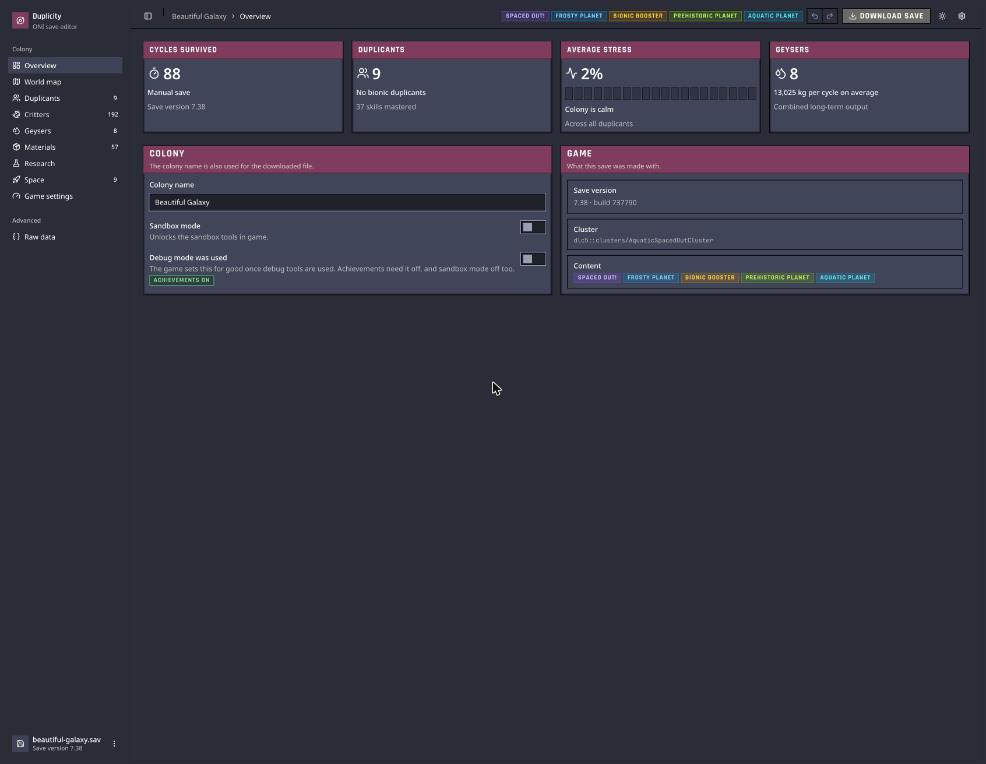
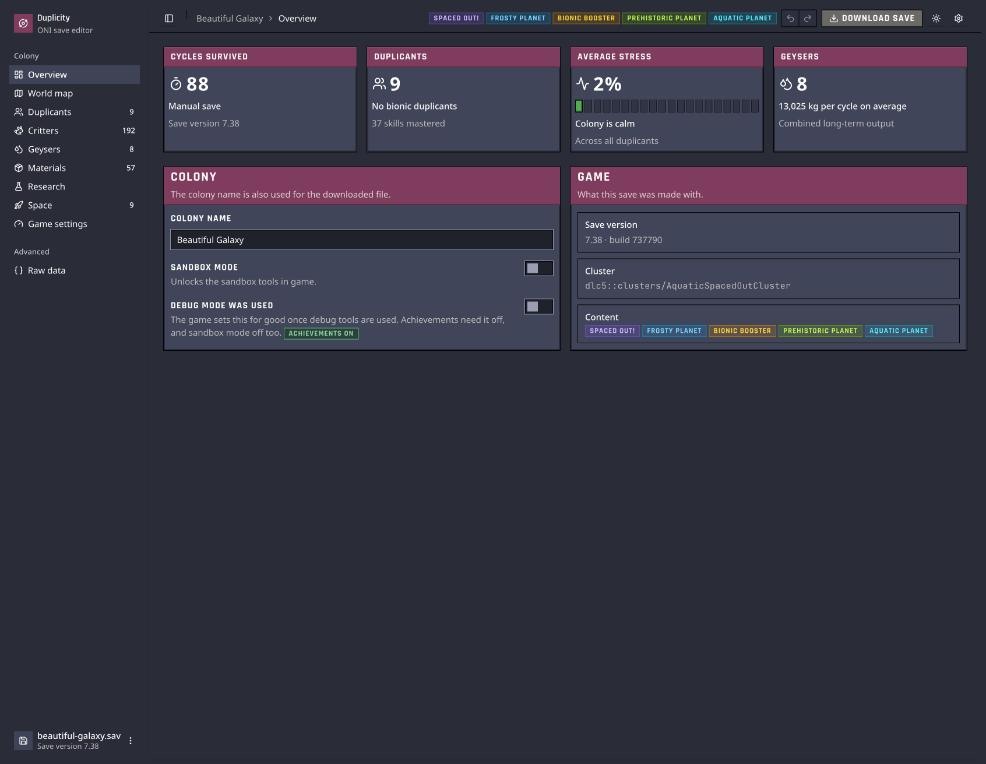
feat(web): use the type scale on the overview and map pages

Changed region(s): [[0.0, 0.0, 1.0, 0.4817], [0.0, 0.9634, 0.1217, 0.9935]]

diff --git a/apps/web/src/components/map-page.tsx b/apps/web/src/components/map-page.tsx
@@ -248,7 +248,7 @@ export function MapPage({ worlds, revision }: { worlds: WorldView[]; revision: n
                 ))}
             </div>
           ) : error?.worldId === worldId ? (
-            <p className="p-4 text-sm text-destructive">{error.message}</p>
+            <p className="p-4 type-small text-destructive">{error.message}</p>
           ) : (
             <Skeleton className="size-full" />
           )}
@@ -256,9 +256,7 @@ export function MapPage({ worlds, revision }: { worlds: WorldView[]; revision: n
         <div className="flex min-w-0 flex-col gap-4">
           <CellInfo map={map} hover={hover} />
           <div className="flex flex-col gap-2">
-            <span className="font-heading text-sm font-bold tracking-[0.09em] text-muted-foreground uppercase">
-              Markers
-            </span>
+            <span className="type-label text-muted-foreground">Markers</span>
             <ToggleGroup
               type="multiple"
               variant="outline"
@@ -274,7 +272,7 @@ export function MapPage({ worlds, revision }: { worlds: WorldView[]; revision: n
           </div>
           {mode === 'element' ? (
             <div className="flex min-h-0 flex-col gap-2">
-              <div className="flex items-center justify-between font-heading text-sm font-bold tracking-[0.09em] text-muted-foreground uppercase">
+              <div className="flex items-center justify-between type-label text-muted-foreground">
                 <span>
                   {world?.name ?? 'World'} · {legend.length} elements
                 </span>
@@ -292,7 +290,7 @@ export function MapPage({ worlds, revision }: { worlds: WorldView[]; revision: n
                       type="button"
                       onClick={() => setHighlight((h) => (h === e.index ? null : e.index))}
                       className={cn(
-                        'flex items-center gap-2 border border-transparent px-2 py-1.5 text-left text-sm hover:bg-white/10',
+                        'flex items-center gap-2 border border-transparent px-2 py-1.5 text-left type-small hover:bg-white/10',
                         highlight === e.index && 'border-warn bg-white/10',
                       )}
                     >
@@ -305,7 +303,7 @@ export function MapPage({ worlds, revision }: { worlds: WorldView[]; revision: n
                         }}
                       />
                       <span className="min-w-0 flex-1 truncate">{e.name}</span>
-                      <span className="text-xs text-muted-foreground tabular-nums">
+                      <span className="type-caption text-muted-foreground tabular-nums">
                         {fmt((e.cells / totalCells) * 100, 1)}%
                       </span>
                     </button>
@@ -331,7 +329,7 @@ function CellInfo({
 }) {
   if (!map || !hover) {
     return (
-      <div className="well px-3 py-4 text-sm text-muted-foreground">
+      <div className="well px-3 py-4 type-small text-muted-foreground">
         Hover the map to inspect a cell.
       </div>
     )
@@ -348,18 +346,18 @@ function CellInfo({
         <Badge variant="secondary">{element.state}</Badge>
       </div>
       {element.state !== 'Vacuum' && (
-        <div className="grid grid-cols-2 gap-x-3 text-sm tabular-nums">
+        <div className="grid grid-cols-2 gap-x-3 type-small tabular-nums">
           <span className="text-muted-foreground">Mass</span>
           <span className="text-right">{fmtMass(map.mass[i]!)}</span>
           <span className="text-muted-foreground">Temperature</span>
           <span className="text-right">{fmt(toCelsius(map.temperature[i]!), 1)} °C</span>
         </div>
       )}
-      <span className="text-xs text-muted-foreground tabular-nums">
+      <span className="type-caption text-muted-foreground tabular-nums">
         Cell {hover.x}, {hover.y}
       </span>
       {here.map((m, index) => (
-        <span key={index} className="text-sm">
+        <span key={index} className="type-small">
           {m.name} <span className="text-muted-foreground">· {m.kind}</span>
         </span>
       ))}
@@ -374,12 +372,12 @@ function RampLegend({ mode }: { mode: 'temperature' | 'mass' }) {
     cssColor(mode === 'temperature' ? temperatureColor(value) : massColor(10 ** value))
   return (
     <div className="flex flex-col gap-2">
-      <span className="font-heading text-sm font-bold tracking-[0.09em] text-muted-foreground uppercase">
+      <span className="type-label text-muted-foreground">
         {mode === 'temperature' ? 'Temperature' : 'Mass per cell (log scale)'}
       </span>
       <div className="flex flex-col border border-ink bg-legend">
         {stops.map(([value]) => (
-          <div key={value} className="flex items-center gap-2 px-2 py-1 text-sm tabular-nums">
+          <div key={value} className="flex items-center gap-2 px-2 py-1 type-small tabular-nums">
             <span className="size-4 ring-1 ring-ink" style={{ background: colorAt(value) }} />
             {label(value)}
           </div>

diff --git a/apps/web/src/components/overview-page.tsx b/apps/web/src/components/overview-page.tsx
@@ -39,13 +39,13 @@ function StatCard({
         <CardTitle>{label}</CardTitle>
       </CardHeader>
       <CardContent className="flex flex-col gap-2">
-        <Badge variant="bare" className="text-3xl font-semibold tabular-nums [&>svg]:size-6!">
+        <Badge variant="bare" className="type-h1 tabular-nums [&>svg]:size-6!">
           {icon}
           {value}
         </Badge>
         {meter}
-        <div className="line-clamp-1 text-sm font-medium">{footer}</div>
-        <div className="text-sm text-muted-foreground">{detail}</div>
+        <div className="line-clamp-1 type-small font-medium">{footer}</div>
+        <div className="type-small text-muted-foreground">{detail}</div>
       </CardContent>
     </Card>
   )
@@ -185,7 +185,7 @@ export function OverviewPage({
               <Item variant="outline" size="sm">
                 <ItemContent>
                   <ItemTitle>Cluster</ItemTitle>
-                  <ItemDescription className="font-mono text-xs">
+                  <ItemDescription className="type-caption font-mono">
                     {summary.clusterId || '—'}
                   </ItemDescription>
                 </ItemContent>

diff --git a/docs/progress.md b/docs/progress.md
@@ -99,6 +99,7 @@ Node 24.21.0, pnpm 12.6.0, TypeScript 7.0.2.
 - Research: progress is a `Progress variant="task"` with a `64 / 112` readout; tech tiles sit on `well` colour in a 1px ink grid.
 - Game settings: every setting is a `well` block; the locked state is a `stat` badge.
 - World map: the element list and ramp legend use the grey `legend` colour with square swatches, the cell info is a `well` block and the map frame is square with an ink outline.
+- Text uses the shared type scale (`type-h1` for the stat numbers, `type-label`, `type-small`, `type-caption`).
 - Only the four page files changed. No behaviour change: every role, name, label and test id is kept. Before and after screenshots are in `docs/screenshots/ui-pages-a/`.
 - Known: `apps/web/tests/geysers.test.ts` still fails locally without the fetched fixtures.
 - Next: batch B pages once their feature PRs land.
